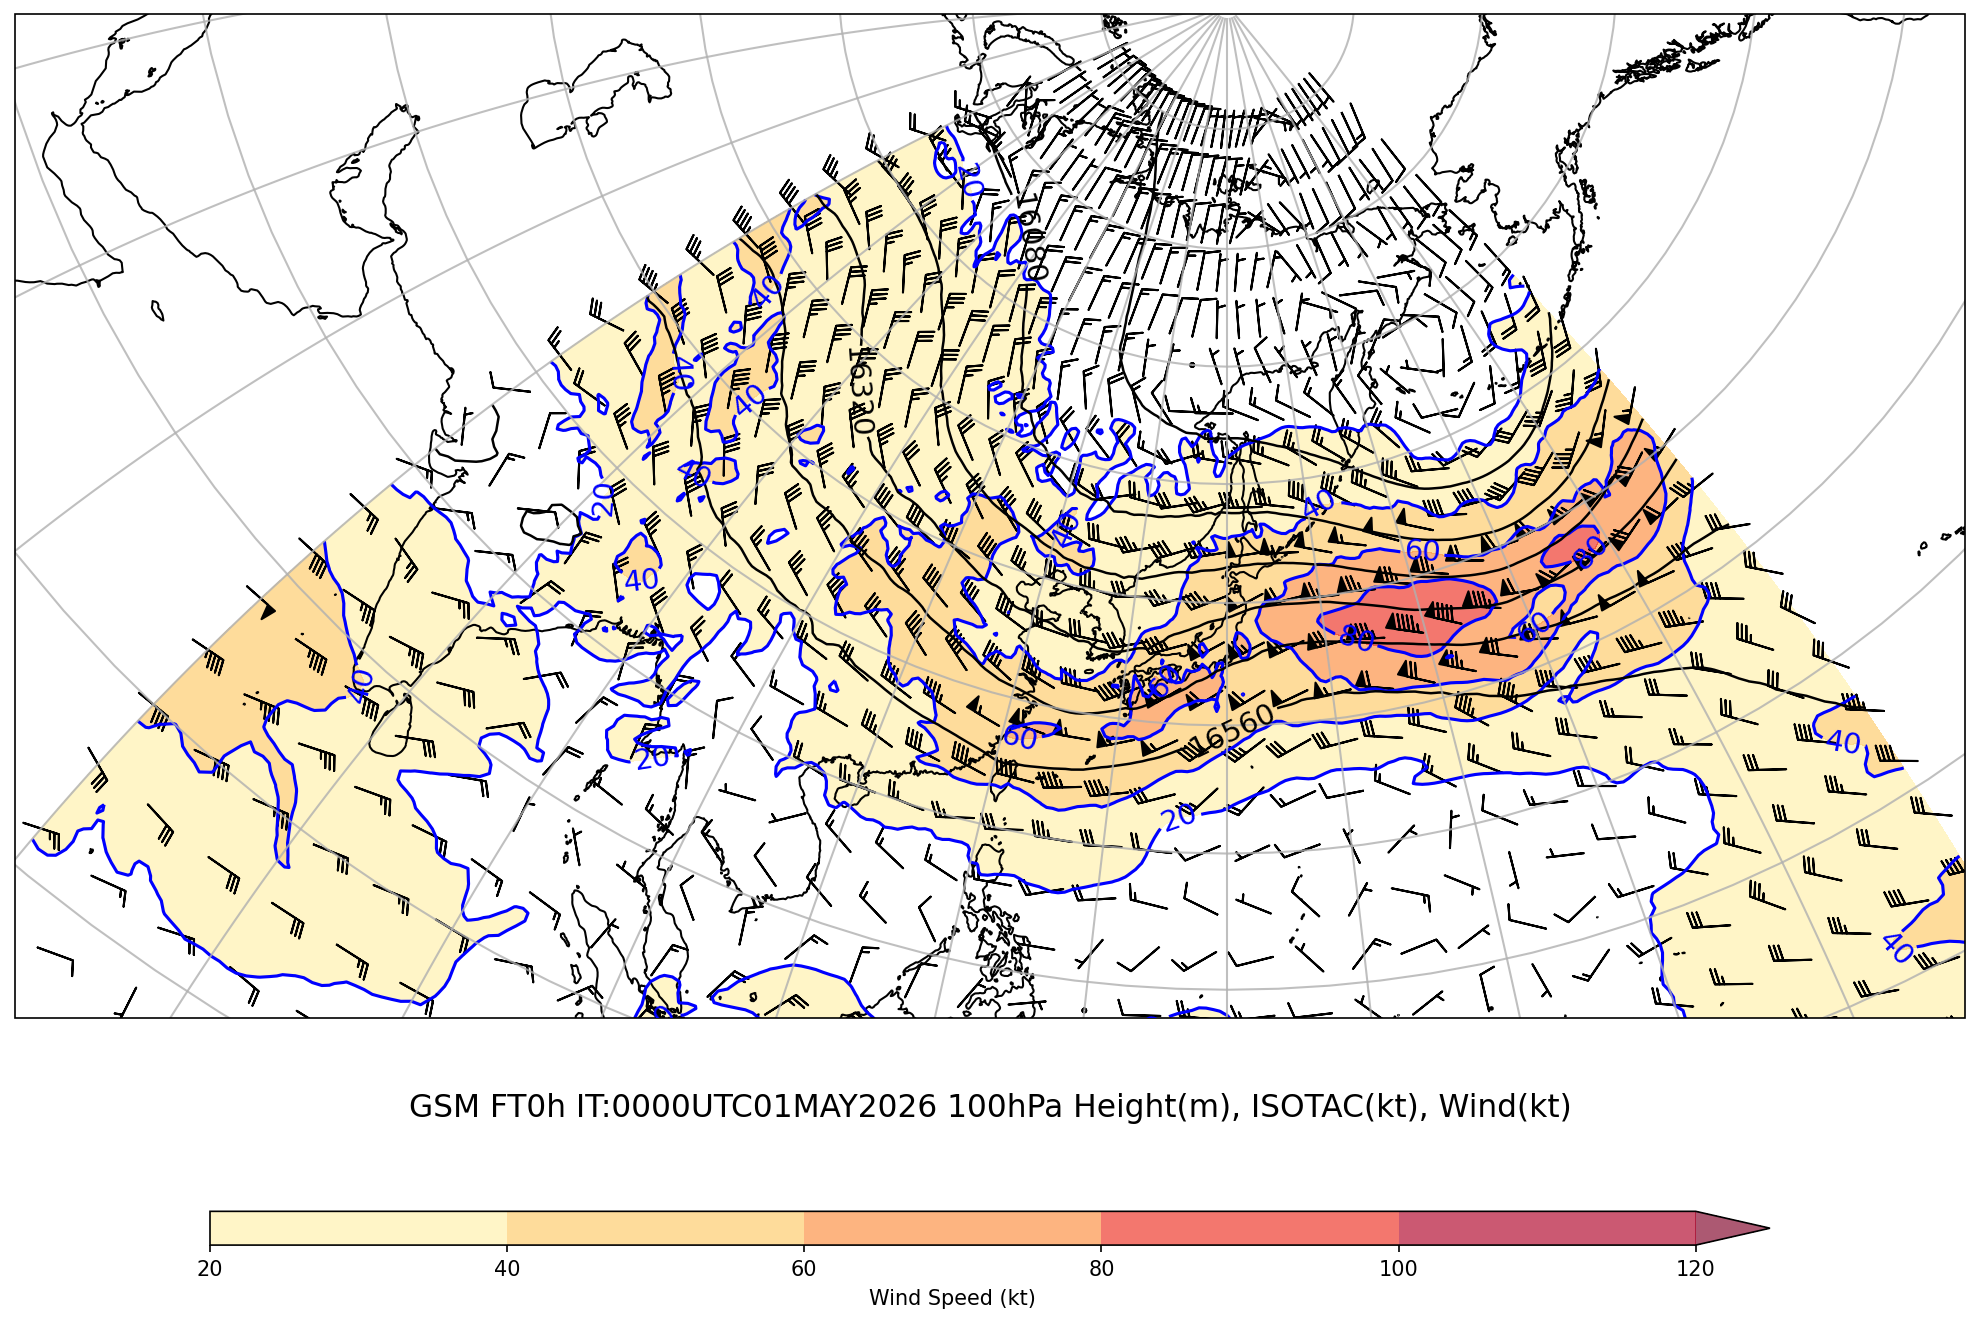
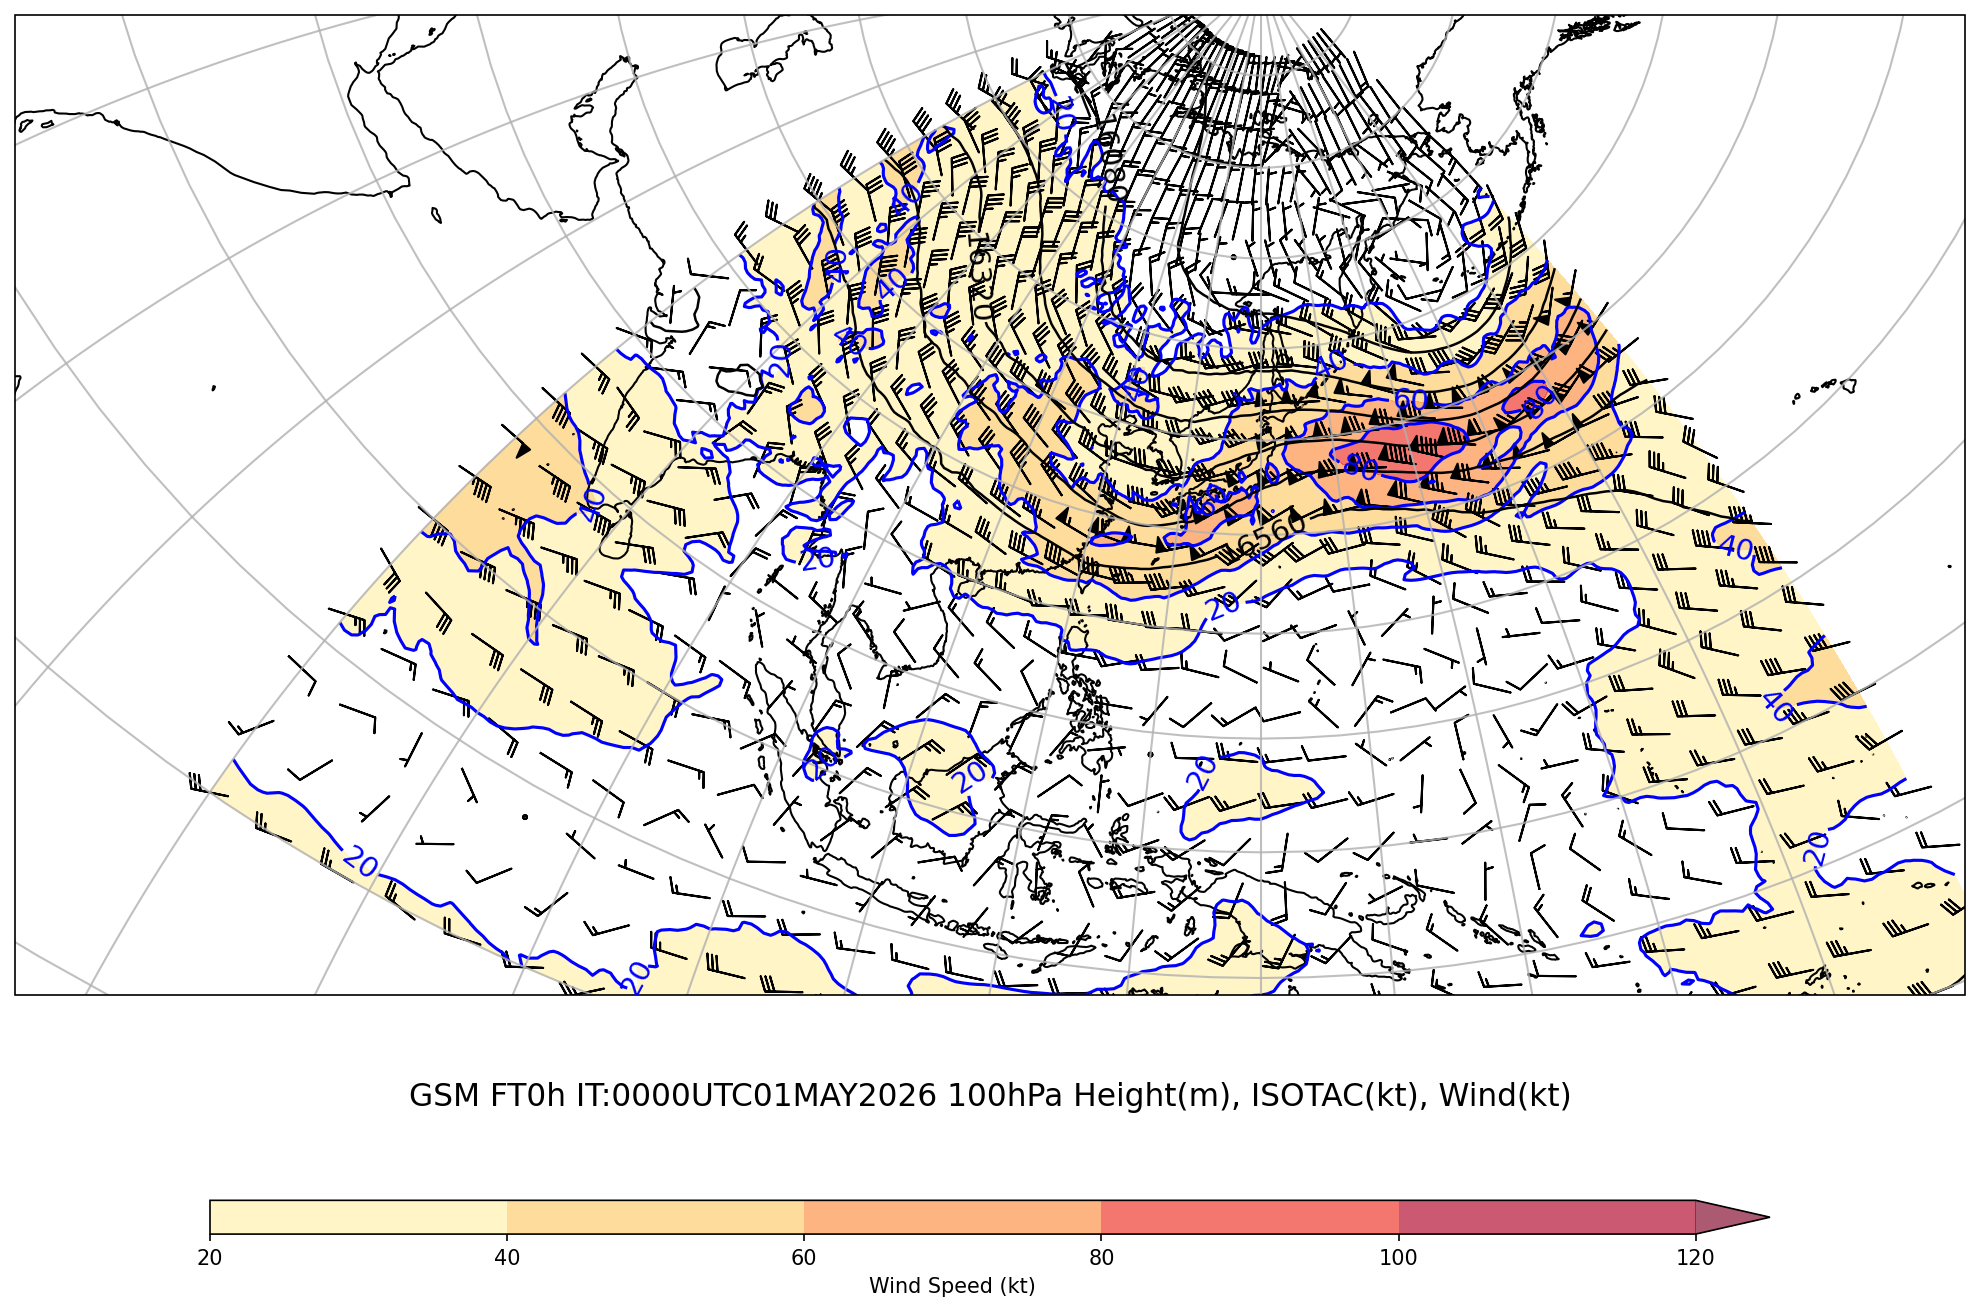
report: ジェット・前線解析ワイドレポート追加 FT0 (2026050100)

diff --git a/reports/2026050100-wide/jet_front_wide_report_FT0.md b/reports/2026050100-wide/jet_front_wide_report_FT0.md
@@ -2,7 +2,7 @@
 
 **初期時刻**: 2026/05/01 00UTC
 
-*(描画領域: 上層 [48, 192, 7.5, 64.5]、850hPa [97, 169, 12.5, 57.5])*
+*(描画領域: 上層 lonW=48 lonE=192 latS=-11.5 latN=45.5、850hPa lonW=97 lonE=169 latS=-2.5 latN=42.5)*
 
 ---
 
